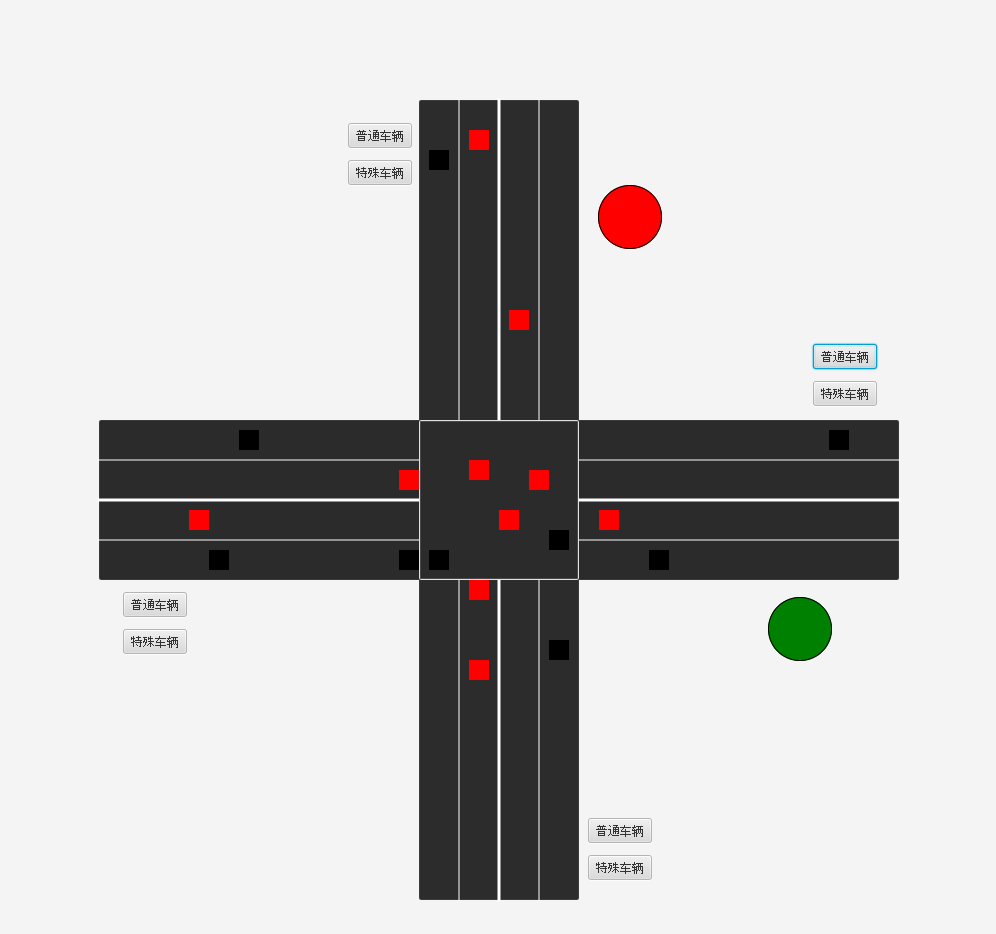
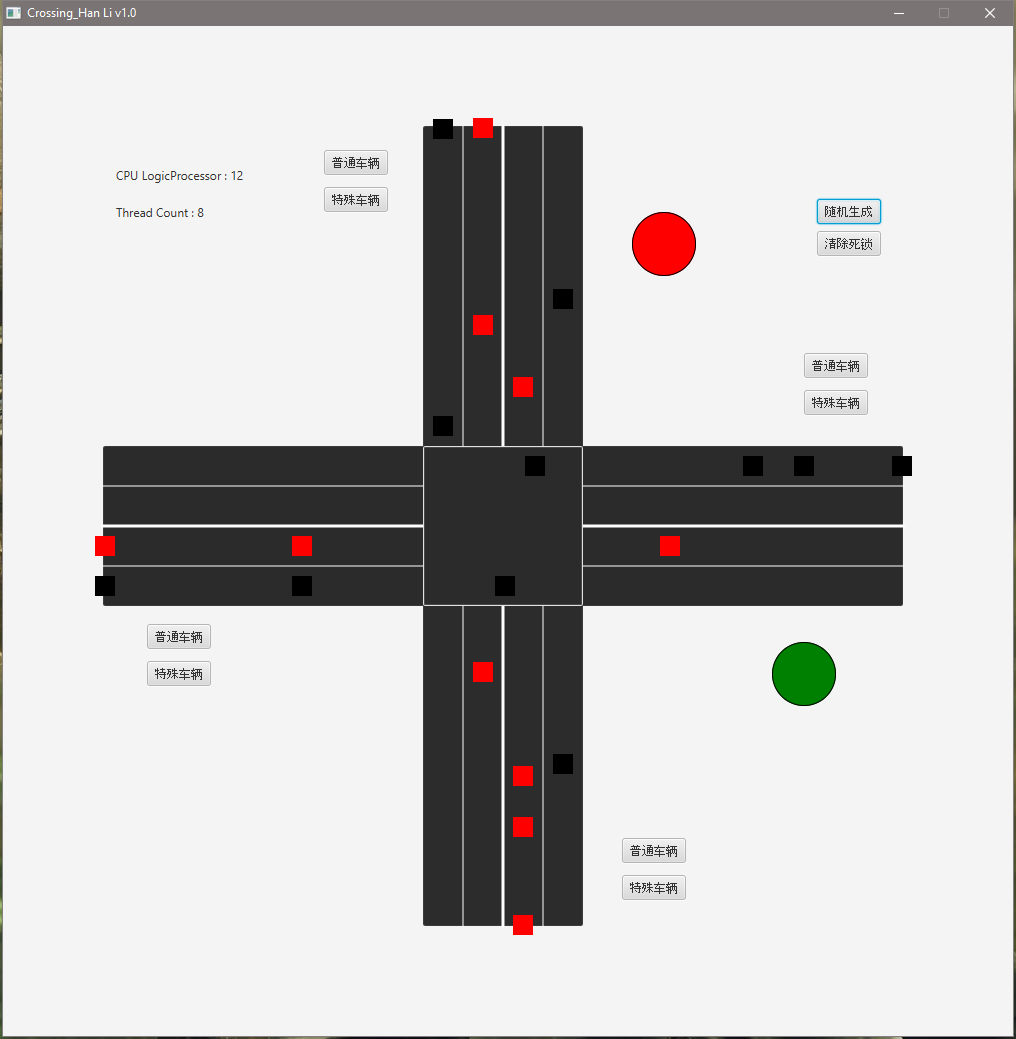
fix deadlock bugs

diff --git a/src/crossing/Controller.java b/src/crossing/Controller.java
@@ -17,6 +17,8 @@ import javafx.scene.text.Text;
 
 import java.util.ArrayList;
 import java.util.Random;
+import java.util.Timer;
+import java.util.TimerTask;
 import java.util.concurrent.ExecutorService;
 import java.util.concurrent.Executors;
 import java.util.concurrent.ScheduledThreadPoolExecutor;
@@ -63,10 +65,16 @@ public class Controller {
     @FXML private Circle NSLight;
     @FXML private Circle EWLight;
 
+    @FXML private Label label1;
+    final private String label1Text = "CPU LogicProcessor : ";
+    @FXML private Label label2;
+    final private String label2Text = "Thread Count : ";
+
     private double velocity;
 
     private int cpuCount;
     private int deadLockCont = 0;
+    private boolean deadLockFlag = false;
     private CrossingMutex mutex;
     private CrossingMutexListener crossingMutexListener;
 
@@ -104,7 +112,20 @@ public class Controller {
         }
         cpuCount =  Runtime.getRuntime().availableProcessors();
 
-        createThreadAndSetvelocity(8);
+        createThreadAndSetvelocity(cpuCount);
+
+        Timer timer = new Timer();
+
+        TimerTask timerTask = new TimerTask() {
+            @Override
+            public void run() {
+                    randomCreate();
+
+            }
+        };
+
+        timer.schedule(timerTask, 0, 3000);
+
 
     }
 
@@ -145,43 +166,44 @@ public class Controller {
         int index = Integer.valueOf(btn.getId().substring(btn.getId().length() - 1));
 //        System.out.println(index);
 
-        if(mutex.checkDeadLock()){
-            deadLockCont ++;
-            if (deadLockCont > 5) {
-                deadlockLabel.setVisible(true);
-            }
-        }
+        checkDeadLock();
 
         addAVehicle(index);
     }
 
 
     @FXML void deadlockClear(){
-        deadlockLabel.setVisible(false);
 
-        for (Road road : roads){
-            road.clear();
+        try {
+
+
+            deadlockLabel.setVisible(false);
+
+            for (Thread thread : threads) {
+                thread.interrupt();
+                thread = null;
+            }
+            threads.clear();
+
+
+            for (Road road : roads) {
+                road.clear();
+            }
+
+            crossingMutexListener.reset();
+            createThreadAndSetvelocity(cpuCount);
+
+        } catch (ArrayIndexOutOfBoundsException e){
+            crossingMutexListener.reset();
         }
 
-        for (Thread thread : threads){
-            thread.stop();
-            thread = null;
-        }
-        threads.clear();
 
-        crossingMutexListener.reset();
-
-       createThreadAndSetvelocity(cpuCount);
         
     }
 
     @FXML void randomCreate(){
-        if(mutex.checkDeadLock()){
-            deadLockCont ++;
-            if (deadLockCont > 7) {
-                deadlockLabel.setVisible(true);
-            }
-        }
+
+        checkDeadLock();
 
         int max=7;
         int min=0;
@@ -195,7 +217,29 @@ public class Controller {
         });
         t.start();
     }
-    public void createThreadAndSetvelocity(int cpuCount){
+
+
+    private void checkDeadLock(){
+        if(mutex.checkDeadLock()){
+            deadLockCont ++;
+            System.out.println(" Inc to ->" +  deadLockCont);
+            deadLockFlag = true;
+        } else if (deadLockFlag){
+            deadLockCont --;
+            System.out.println(" Dec to ->" + deadLockCont);
+            deadlockLabel.setVisible(false);
+            deadLockFlag = false;
+        }
+
+        if (deadLockCont >= 5) {
+            deadLockCont = 5;
+            deadlockLabel.setVisible(true);
+        }
+    }
+    public void createThreadAndSetvelocity (int cpuCount){
+
+        label1.setText(label1Text + cpuCount);
+
         ArrayList<Runnable> rs = new ArrayList<>();
         switch (cpuCount){
             case 1:
@@ -203,7 +247,7 @@ public class Controller {
                 rs.add(new Runnable() {
                     @Override
                     public void run() {
-                        while (!Thread.interrupted()){
+                        while (!Thread.currentThread().isInterrupted()){
                             for (Road road : roads){
                                 road.run();
                             }
@@ -215,14 +259,16 @@ public class Controller {
                     threads.add(t);
                     t.start();
                 }
-                velocity =  5;
+                velocity =  10;
+                label2.setText(label2Text + 1);
                 break;
             case 3:
             case 4:
                 rs.add(new Runnable() {
                     @Override
                     public void run() {
-                        while (!Thread.interrupted()) {
+                        while (!Thread.currentThread().isInterrupted()) {
+
                             roads[0].run();
                             roads[1].run();
                             roads[2].run();
@@ -233,7 +279,7 @@ public class Controller {
                 rs.add(new Runnable() {
                     @Override
                     public void run() {
-                        while (!Thread.interrupted()) {
+                        while (!Thread.currentThread().isInterrupted()) {
                             roads[4].run();
                             roads[5].run();
                             roads[6].run();
@@ -246,7 +292,8 @@ public class Controller {
                     threads.add(t);
                     t.start();
                 }
-                velocity =  2;
+                velocity =  5;
+                label2.setText(label2Text  + 2);
                 break;
             case 5:
             case 6:
@@ -255,7 +302,7 @@ public class Controller {
                 rs.add(new Runnable() {
                     @Override
                     public void run() {
-                        while (!Thread.interrupted()) {
+                        while (!Thread.currentThread().isInterrupted()) {
                             roads[0].run();
                             roads[1].run();
                         }
@@ -264,7 +311,7 @@ public class Controller {
                 rs.add(new Runnable() {
                     @Override
                     public void run() {
-                        while (!Thread.interrupted()) {
+                        while (!Thread.currentThread().isInterrupted()) {
                             roads[2].run();
                             roads[3].run();
                         }
@@ -273,7 +320,7 @@ public class Controller {
                 rs.add(new Runnable() {
                     @Override
                     public void run() {
-                        while (!Thread.interrupted()) {
+                        while (!Thread.currentThread().isInterrupted()) {
                             roads[4].run();
                             roads[5].run();
                         }
@@ -282,7 +329,7 @@ public class Controller {
                 rs.add(new Runnable() {
                     @Override
                     public void run() {
-                        while (!Thread.interrupted()) {
+                        while (!Thread.currentThread().isInterrupted()) {
                             roads[6].run();
                             roads[7].run();
                         }
@@ -294,6 +341,7 @@ public class Controller {
                     t.start();
                 }
                 velocity = 2;
+                label2.setText(label2Text  + 4);
                 break;
             case 9:
             case 10:
@@ -305,14 +353,19 @@ public class Controller {
             case 16:
                 for (Road road : roads){
                     Thread t = new Thread(()-> {
-                        while (!Thread.interrupted()) {
-                            road.run();
+                        while (true) {
+                            if (Thread.currentThread().isInterrupted()){
+//                                System.out.println("Interrputed");
+                            } else {
+                                road.run();
+                            }
                         }
                     });
                     threads.add(t);
                     t.start();
                 }
                 velocity = 1;
+                label2.setText(label2Text  + 8);
                 break;
         }
     }

diff --git a/src/crossing/Model/Road.java b/src/crossing/Model/Road.java
@@ -133,24 +133,30 @@ public class Road{
     public void run() {
 //        System.out.println(" Road " + this.hashCode() + " try to move a car");
 
+        try {
             for (Vehicle v : vehicles) {
 
 //                System.out.println(" Road " + this.hashCode() + " try to move a car");
 
-                if (v.getMileage() >= 1000){
+                if (v.getMileage() >= 1000) {
                     v.setMileage(Double.MAX_VALUE / 2);
                 } else {
                     try {
                         Thread.sleep(5);
-                    } catch (InterruptedException e) {}
+                    } catch (InterruptedException e) {
+                        Thread.currentThread().interrupt();
+                    }
                     if (v.getMileage() <= 1000) {
-                        if (v.getMileage() > 800){
+                        if (v.getMileage() > 800) {
                             v.setVisable(false);
                         }
                         v.move();
                     }
                 }
             }
+        } catch (ArrayIndexOutOfBoundsException e){
+
+        }
     }
 
     public void clear(){
